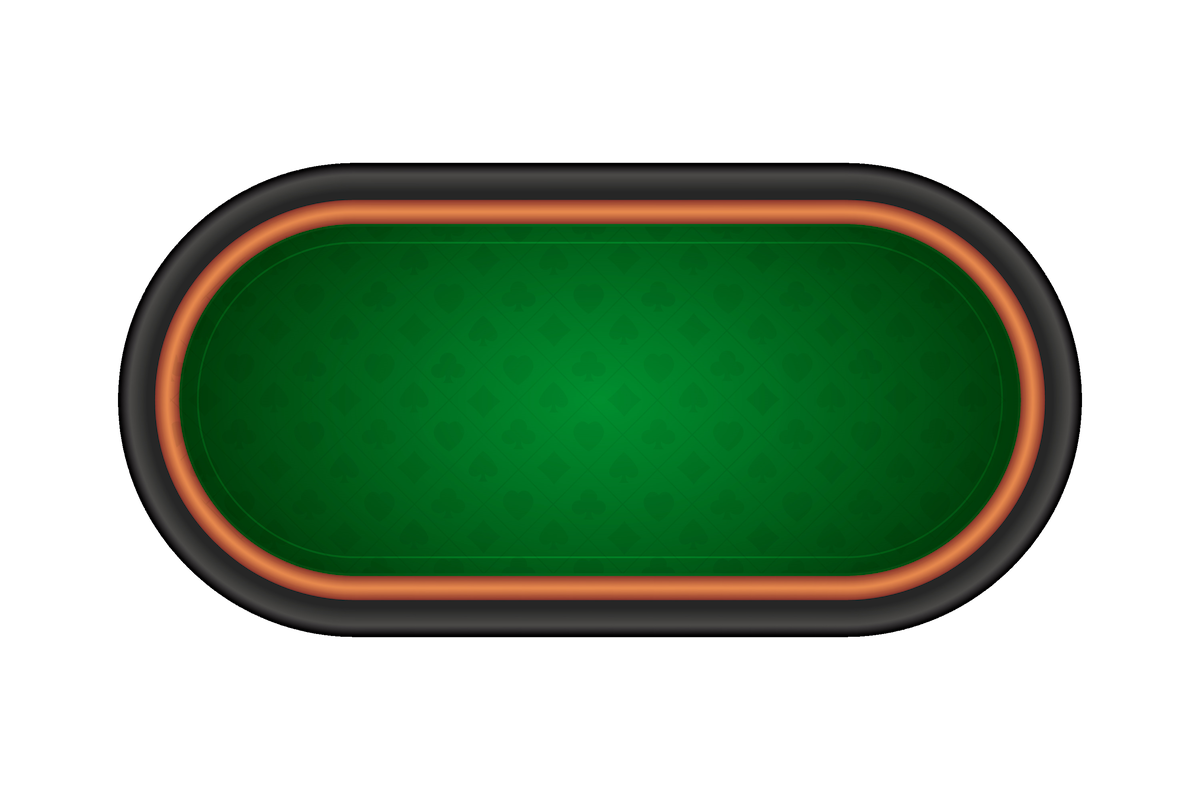
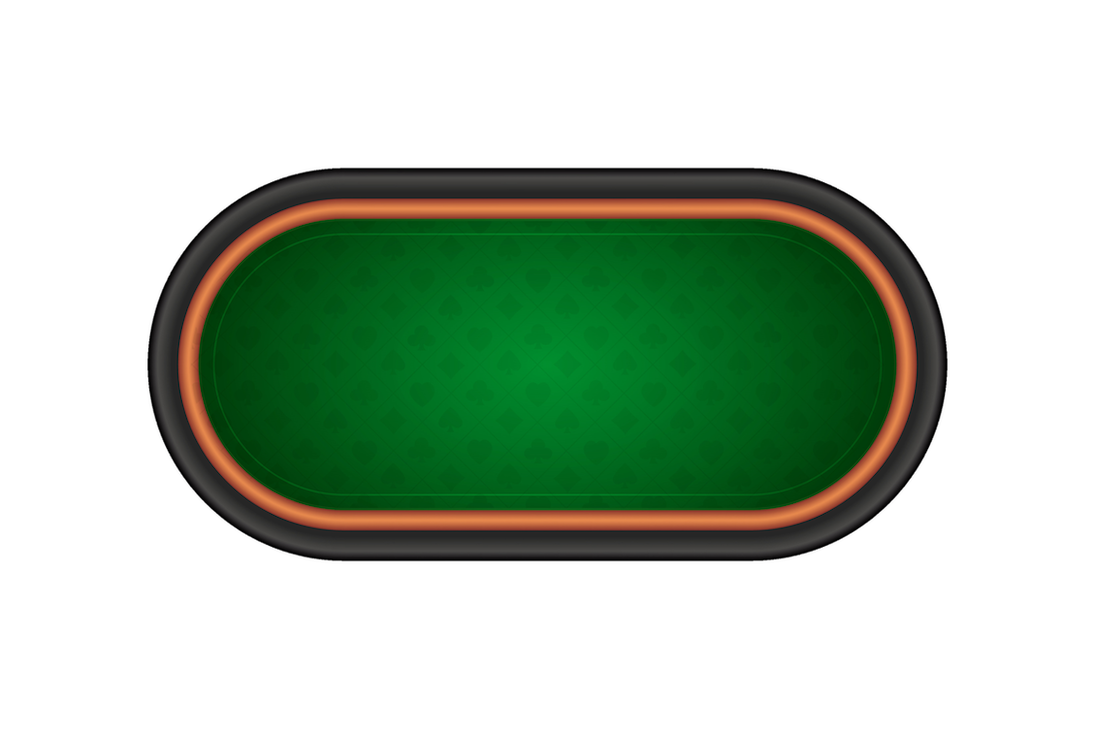
Bilder

Changed region(s): [[0.0932, 0.1811, 0.9005, 0.8148]]

diff --git a/src/main/java/de/ben/PokerGUI.java b/src/main/java/de/ben/PokerGUI.java
@@ -9,7 +9,7 @@ import java.util.List;
 
 public class PokerGUI extends JFrame {
     // Attribute & Objekte
-    protected Poker game;
+    //protected Poker game;
     private JPanel panel;
     private JTextPane dialogPane; // Dialogbox oben rechts
     private JTextField raiseField; // Textfeld zur Eingabe vom Wert zum Erhöhen
@@ -29,8 +29,9 @@ public class PokerGUI extends JFrame {
     private int totalPlayers;
 
     // Konstruktor
-    public PokerGUI(int numPlayers, ArrayList<String> playerNames) {
+    public PokerGUI(int numPlayers, ArrayList<String> playerNames, int startChips, int bigBlind) {
         totalPlayers = numPlayers; // Set total players
+        //game = new Poker(startChips, bigBlind, numPlayers, this);
         playerChips = new ArrayList<>();
         for (int i = 0; i < totalPlayers; i++) {
             playerChips.add(1000); // Beispiel: Jeder Spieler startet mit 1000 Chips
@@ -49,7 +50,7 @@ public class PokerGUI extends JFrame {
             protected void paintComponent(Graphics g) {
                 super.paintComponent(g);
                 g.drawImage(new ImageIcon("img/background.jpg").getImage(), 0, 0, null);
-                g.drawImage(new ImageIcon("img/table.png").getImage(), -13, 0, null);
+                g.drawImage(new ImageIcon("img/table.png").getImage(), 45, 45, null);
             }
         };
         panel.setLayout(null);
@@ -134,7 +135,7 @@ public class PokerGUI extends JFrame {
         // Initialize the action listeners for the buttons
         foldButton.addActionListener(new ActionListener() {
             public void actionPerformed(ActionEvent e) {
-                addMessage("Player " + (currentPlayerIndex + 1) + " folds.");
+                addMessageToDialogBox("Player " + (currentPlayerIndex + 1) + " folds.");
                 updateChips(-10); // Beispielwert für folden
                 hideRaiseField();
                 nextPlayer();
@@ -142,14 +143,14 @@ public class PokerGUI extends JFrame {
         });
         checkButton.addActionListener(new ActionListener() {
             public void actionPerformed(ActionEvent e) {
-                addMessage("Player " + (currentPlayerIndex + 1) + " checks.");
+                addMessageToDialogBox("Player " + (currentPlayerIndex + 1) + " checks.");
                 hideRaiseField();
                 nextPlayer();
             }
         });
         callButton.addActionListener(new ActionListener() {
             public void actionPerformed(ActionEvent e) {
-                addMessage("Player " + (currentPlayerIndex + 1) + " calls.");
+                addMessageToDialogBox("Player " + (currentPlayerIndex + 1) + " calls.");
                 updateChips(-20); // Beispielwert für callen
                 hideRaiseField();
                 nextPlayer();
@@ -161,7 +162,7 @@ public class PokerGUI extends JFrame {
                 raiseLabel.setVisible(true);
                 if (!raiseField.getText().isEmpty()) {
                     int raiseAmount = Integer.parseInt(raiseField.getText());
-                    addMessage("Player " + (currentPlayerIndex + 1) + " raises " + raiseAmount);
+                    addMessageToDialogBox("Player " + (currentPlayerIndex + 1) + " raises " + raiseAmount);
                     updateChips(-raiseAmount); // Beispielwert für raisen
                     raiseField.setText(""); // Clear the field after submission
                     hideRaiseField();
@@ -171,7 +172,7 @@ public class PokerGUI extends JFrame {
         });
         allInButton.addActionListener(new ActionListener() {
             public void actionPerformed(ActionEvent e) {
-                addMessage("Player " + (currentPlayerIndex + 1) + " goes all in!");
+                addMessageToDialogBox("Player " + (currentPlayerIndex + 1) + " goes all in!");
                 updateChips(-playerChips.get(currentPlayerIndex)); // Setzt die Chips auf 0
                 hideRaiseField();
                 nextPlayer();
@@ -192,7 +193,7 @@ public class PokerGUI extends JFrame {
         return button;
     }
 
-    private void addMessage(String message) {
+    private void addMessageToDialogBox(String message) {
         messages.add(message);
         dialogPane.setText(String.join("\n", messages));
     }
@@ -223,7 +224,7 @@ public class PokerGUI extends JFrame {
                 playerNames.add("Player 2");
                 playerNames.add("Player 3");
 
-                new PokerGUI(3, playerNames).setVisible(true);
+                new PokerGUI(3, playerNames, 5000, 50).setVisible(true);
             }
         });
     }

diff --git a/src/main/java/de/ben/PlayerSelectionIDEE.java b/src/main/java/de/ben/PlayerSelectionIDEE.java
@@ -39,7 +39,7 @@ public class PlayerSelectionIDEE extends JFrame {
         gbc.insets = new Insets(10, 10, 10, 10);
         gbc.fill = GridBagConstraints.HORIZONTAL;
 
-        JLabel playerLabel = new JLabel("Wie viele Gegner? (2-10)");
+        JLabel playerLabel = new JLabel("Anzahl der Spieler (2-10):");
         gbc.gridx = 0;
         gbc.gridy = 0;
         gbc.gridwidth = 2;
@@ -65,7 +65,7 @@ public class PlayerSelectionIDEE extends JFrame {
             }
         });
 
-        startChipsLabel = new JLabel("Anzahl der Anfangschips (200-10000): " + startChips);
+        startChipsLabel = new JLabel("Anzahl der Anfangschips (200-10000):  " + startChips);
         gbc.gridx = 0;
         gbc.gridy = 2;
         gbc.gridwidth = 2;
@@ -82,7 +82,7 @@ public class PlayerSelectionIDEE extends JFrame {
 
         startChipsSlider.addChangeListener(e -> {
             startChips = startChipsSlider.getValue();
-            startChipsLabel.setText("Anzahl der Anfangschips (200-10000): " + startChips);
+            startChipsLabel.setText("Anzahl der Anfangschips (200-10000):  " + startChips);
         });
 
         startChipsSlider.addMouseWheelListener(new MouseAdapter() {
@@ -94,7 +94,7 @@ public class PlayerSelectionIDEE extends JFrame {
             }
         });
 
-        bigBlindLabel = new JLabel("Big Blind (20-2000, nur gerade Zahlen): " + bigBlind);
+        bigBlindLabel = new JLabel("Big Blind (20-2000):  " + bigBlind);
         gbc.gridx = 0;
         gbc.gridy = 4;
         gbc.gridwidth = 2;
@@ -115,7 +115,7 @@ public class PlayerSelectionIDEE extends JFrame {
             if (bigBlind % 2 != 0) {
                 bigBlind -= 1;
             }
-            bigBlindLabel.setText("Big Blind (20-2000, nur gerade Zahlen): " + bigBlind);
+            bigBlindLabel.setText("Big Blind (20-2000):  " + bigBlind);
             bigBlindSlider.setValue(bigBlind);
         });
 
@@ -148,7 +148,7 @@ public class PlayerSelectionIDEE extends JFrame {
 
         exitButton.addActionListener(e -> {
             this.dispose();
-            new PokerGUI(numPlayers, playerNames).setVisible(true);
+            new PokerGUI(numPlayers, playerNames, startChips, bigBlind).setVisible(true);
         });
 
         add(panel);
